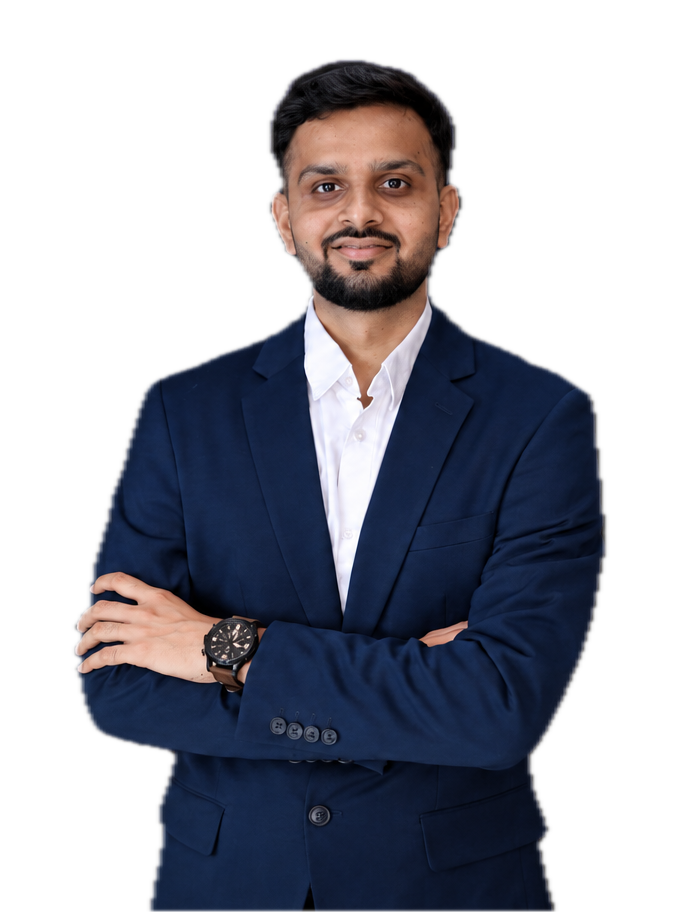
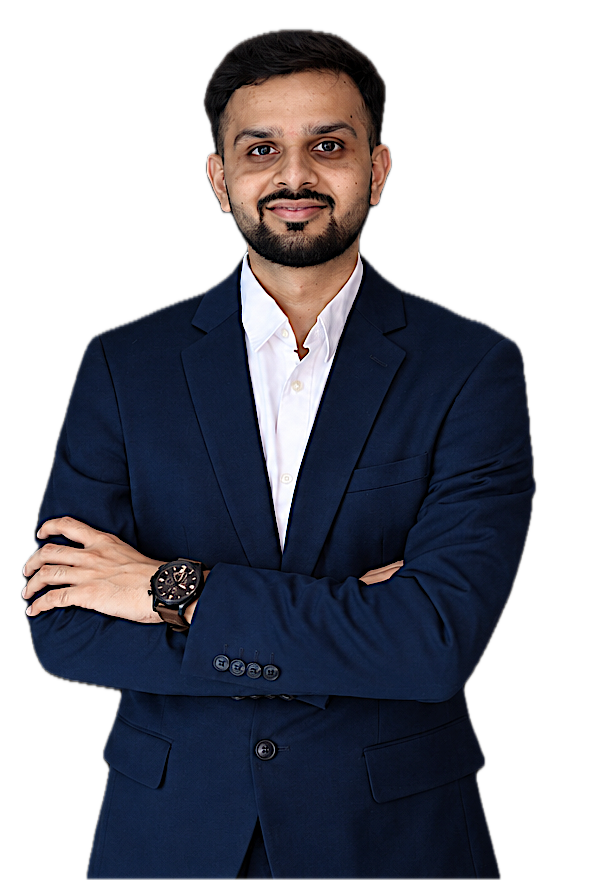
feat: replace contact page portrait with common.png and remove obsolete root public folder

diff --git a/apps/site/src/app/speaking/page.tsx b/apps/site/src/app/speaking/page.tsx
@@ -229,7 +229,7 @@ export default async function SpeakingPage() {
       {/* Professional Experience — how the engagement works, then the ask */}
       <section className="card-hover py-12 sm:py-16 md:py-20 border-b border-border bg-card/40" aria-label="Professional experience">
         <div className="max-w-7xl mx-auto px-4 sm:px-6">
-          <div className="max-w-2xl text-center lg:text-left mx-auto lg:mx-0" data-animate>
+          <div className="max-w-2xl text-center lg:text-left mx-auto lg:mx-0">
             <Pill supportLine="How it works">How it works</Pill>
             <h2 className="mt-2 font-display text-3xl sm:text-4xl font-bold text-accent-strong">Three simple steps</h2>
             <p className="mt-3 text-muted-foreground leading-relaxed">

diff --git a/apps/site/src/app/contact/page.tsx b/apps/site/src/app/contact/page.tsx
@@ -155,8 +155,8 @@ export default function ContactPage() {
               <Image
                 src="/images/contact/sagar-lad-keynote-speaker-contact-portrait.png"
                 alt="Sagar Lad – Contact for Keynotes, Mentorship and Collaborations"
-                width={698}
-                height={912}
+                width={606}
+                height={880}
                 priority
                 sizes="(max-width: 640px) 280px, (max-width: 1024px) 320px, 360px"
                 className="relative z-10 h-auto w-full max-h-[440px] sm:max-h-[480px] object-contain object-[51%_61%] sm:object-[51%_58%] lg:object-[52%_34%] drop-shadow-xl"
